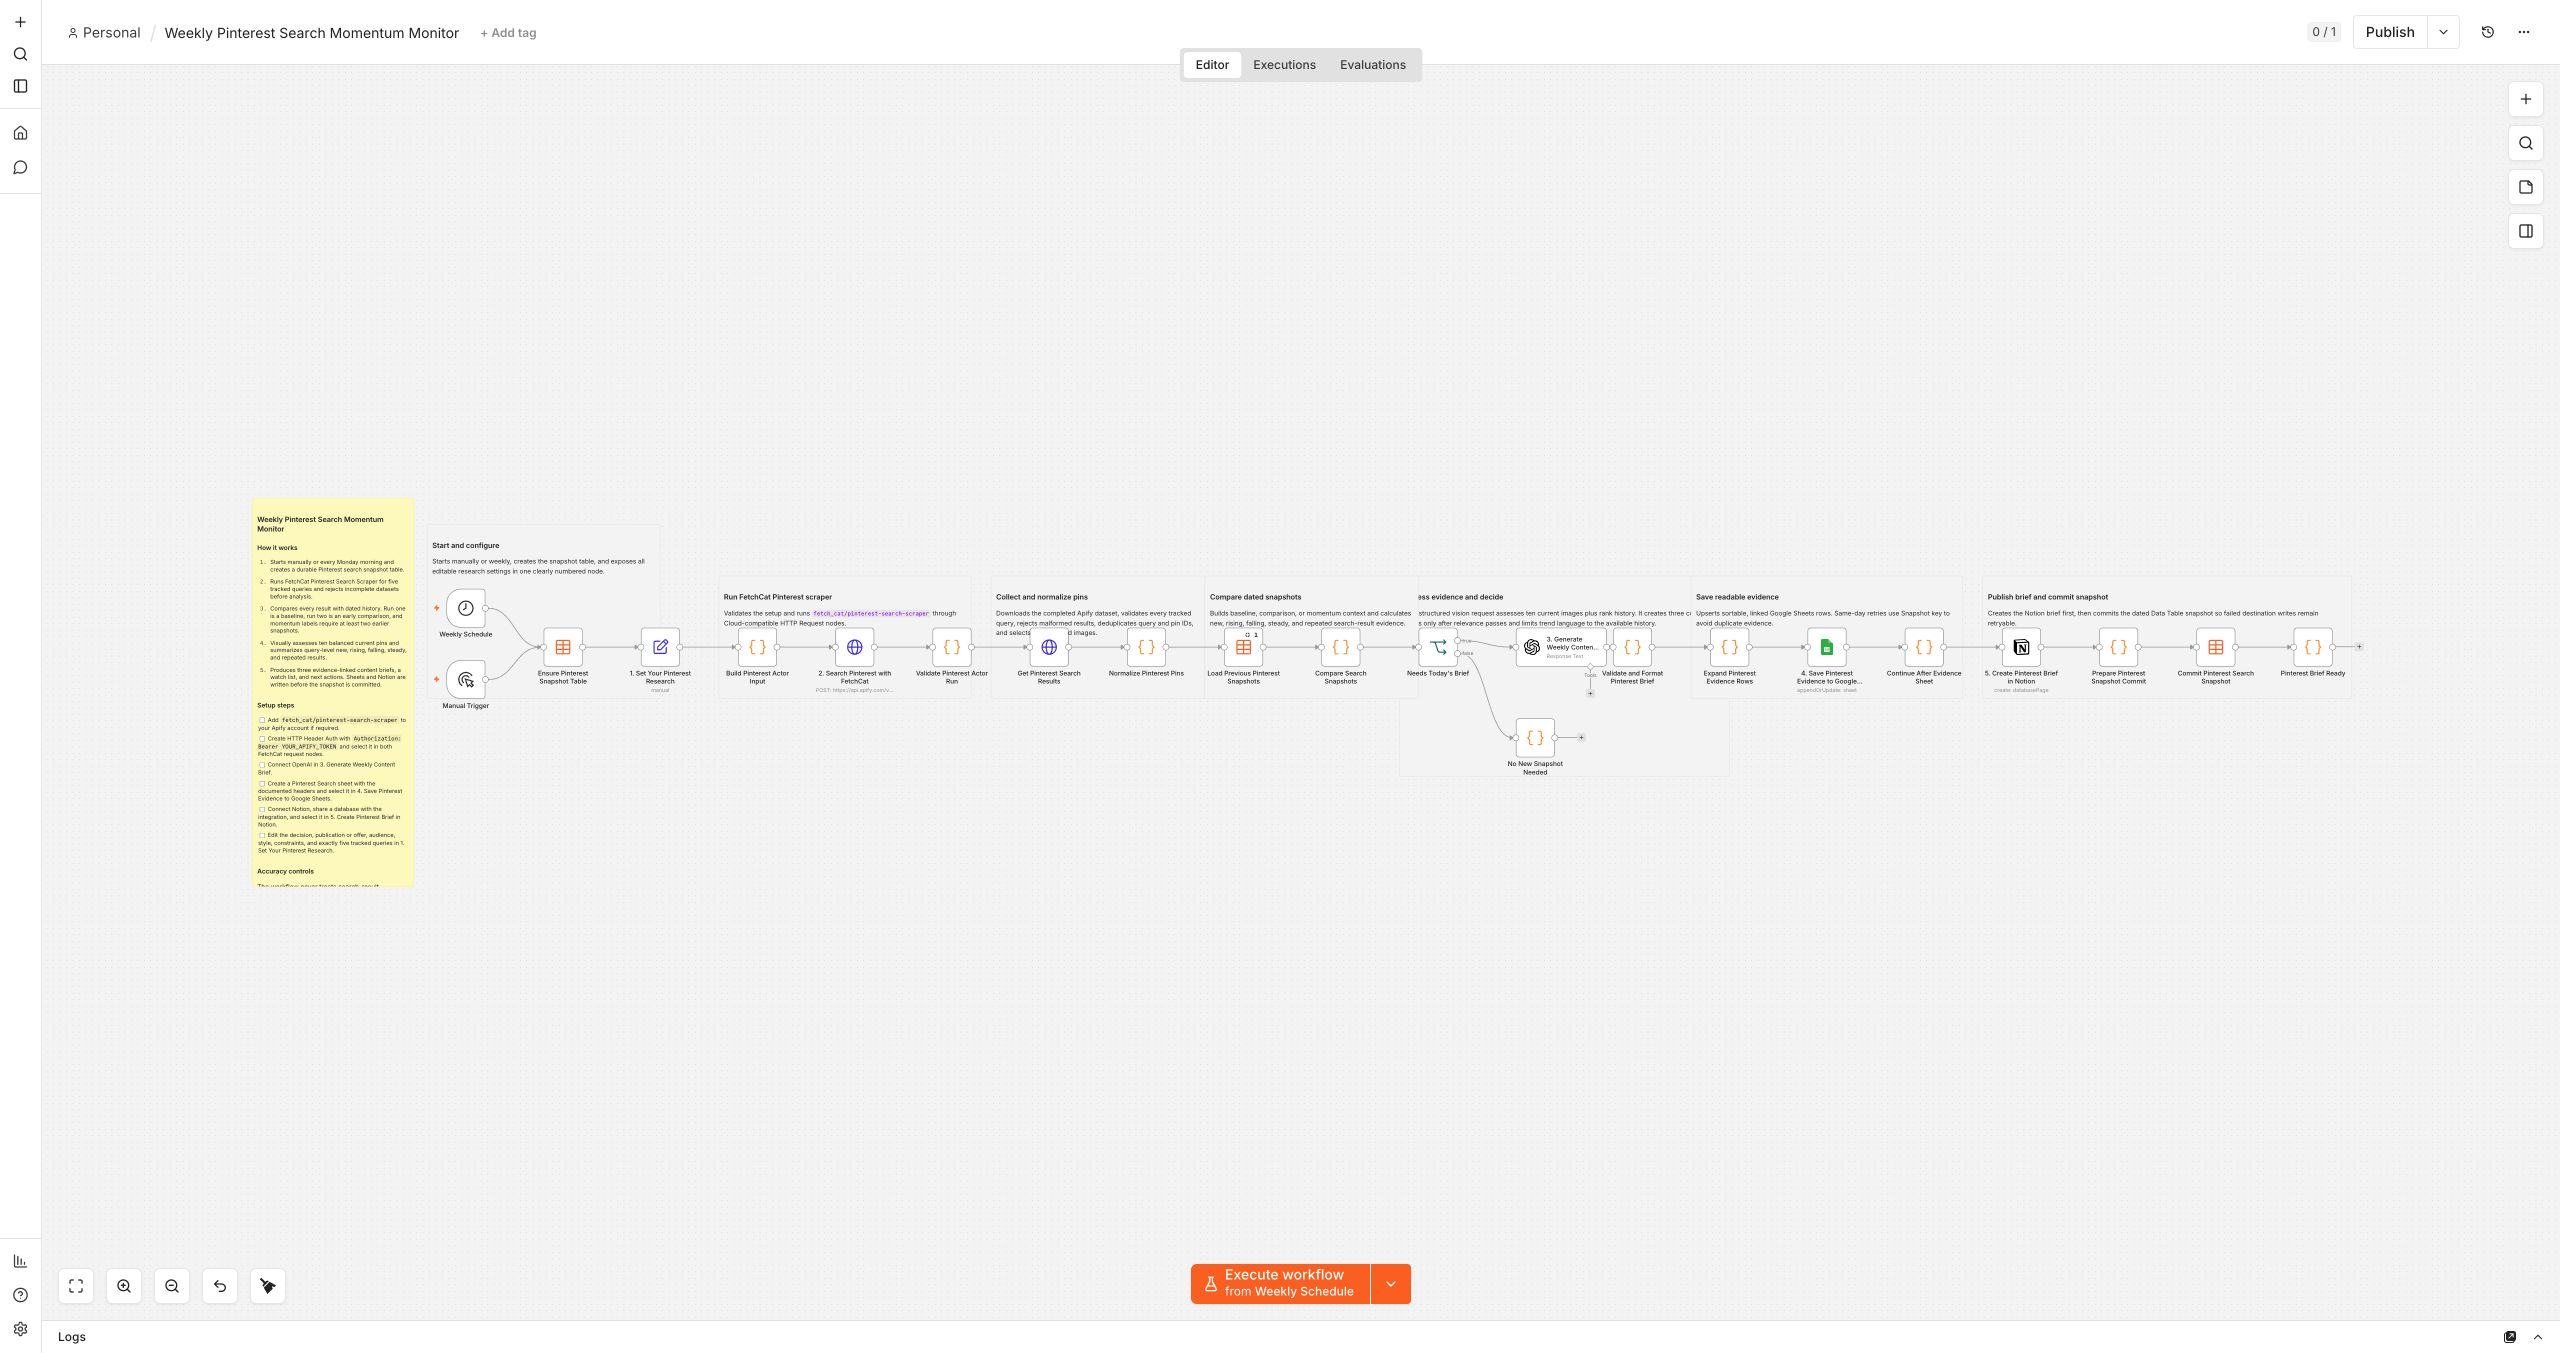
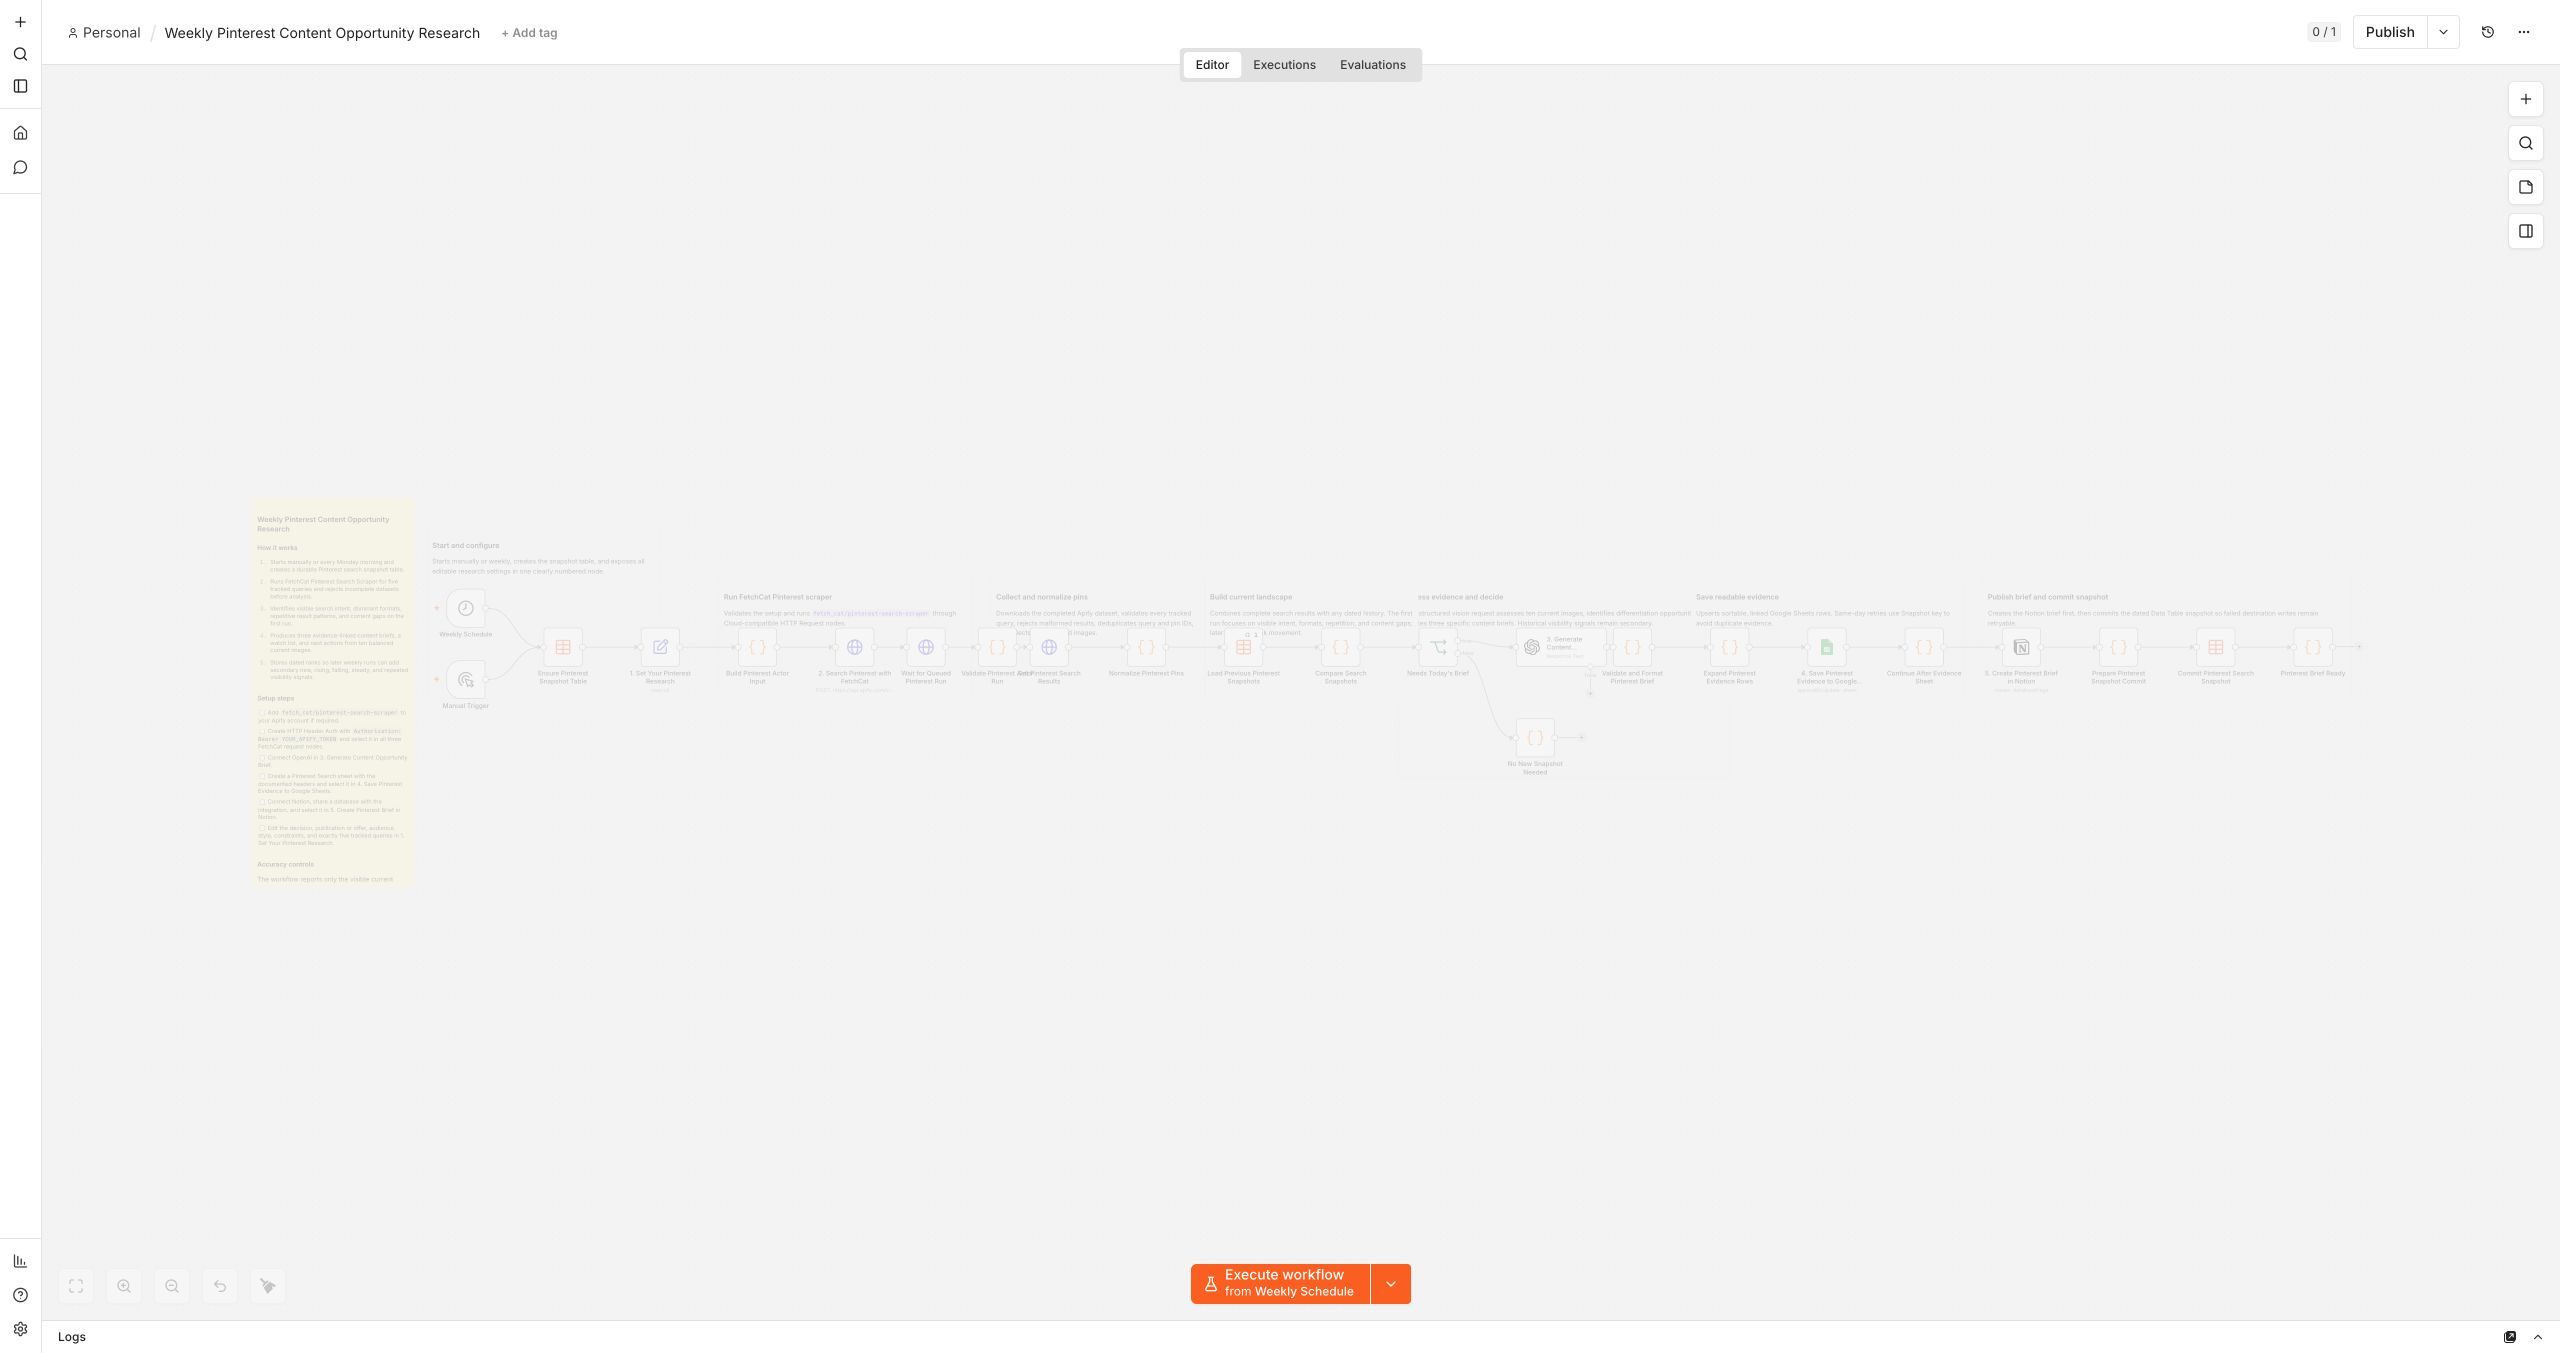
feat: focus Pinterest workflow on content opportunities

diff --git a/workflows/pinterest-search-opportunities-brief/README.md b/workflows/pinterest-search-opportunities-brief/README.md
@@ -1,59 +1,64 @@
-# Weekly Pinterest Search Momentum Monitor
+# Weekly Pinterest Content Opportunity Research
 
 Runs the [FetchCat Pinterest Search Scraper](https://apify.com/fetch_cat/pinterest-search-scraper)
-every Monday for five stable niche queries. It records complete Pinterest search
-snapshots, measures which pins entered or moved, visually reviews ten balanced
-current results, and turns the evidence into three content briefs for the next
-publishing cycle.
-
-The first run is a current-landscape baseline. The second is explicitly an early
-comparison. Only the third and later snapshots may label a repeated search-result
-pattern as momentum. This workflow does not equate ranking movement with search
-volume, popularity, or commercial demand.
+for five related niche searches and turns the current result landscape into an
+evidence-linked publishing plan. The first run identifies visible search intent,
+dominant formats, repetitive result patterns, differentiation gaps, and three
+specific content opportunities. Later weekly runs add secondary search-visibility
+movement without presenting rank changes as demand trends.
 
 ## Setup
 
 1. Import `workflow.json` into n8n Cloud or self-hosted n8n.
-2. Edit `1. Set Your Pinterest Research`: monitor name, publishing decision,
-   publication or offer, audience, style, constraints, and exactly five stable,
-   comma-separated queries. Keep these queries unchanged between weekly runs.
+2. Edit `1. Set Your Pinterest Research`: research name, publishing decision,
+   publication or offer, audience, style, constraints, and exactly five focused,
+   comma-separated searches.
 3. Add `fetch_cat/pinterest-search-scraper` to your Apify account. Create HTTP
    Header Auth with header `Authorization` and value `Bearer YOUR_APIFY_TOKEN`,
    then select it in all three FetchCat HTTP Request nodes.
-4. Connect a vision-capable OpenAI model in `3. Generate Weekly Content Brief`.
+4. Connect a vision-capable OpenAI model in `3. Generate Content Opportunity Brief`.
 5. Create a Google Sheet tab named `Pinterest Search` with headers: `Snapshot at`,
    `Query`, `Position`, `Previous position`, `Movement`, `Status`, `Pin`, `Title`,
    `Creator`, `Domain`, `Image`, `Saves`, `Repins`, `Pinterest pin ID`, and
    `Snapshot key`. Select it in the Sheets node.
 6. Connect Notion, share a database with the integration, and select it in
    `5. Create Pinterest Brief in Notion`.
-7. Run manually once, verify the baseline report, then activate the Monday schedule.
+7. Run manually, review the content opportunities, then activate the Monday schedule
+   if you also want visibility comparisons over time.
 
 The workflow creates `FetchCat Pinterest Search Snapshots` automatically.
 
-## What You Receive
+## First-Run Value
 
-- A query dashboard showing new, rising, falling, steady, and repeated results.
-- Four evidence-linked current, recurring, or emerging search-landscape patterns.
-- Three original content briefs with format, audience intent, differentiation,
-  visual direction, Pinterest title and description, keywords, and test metric.
-- A watch list, five follow-up queries, next actions, and linked source images.
-- Sortable Google Sheets evidence and a readable Notion decision brief.
+- A per-query assessment of informational, commercial, mixed, or unclear intent.
+- The dominant visible result format and how repetitive the supplied results look.
+- A concrete content gap and a narrower follow-up search for every query.
+- Four evidence-linked current patterns and differentiation observations.
+- Three original content briefs with audience problem, format, concept,
+  differentiation, visual direction, Pinterest copy, keywords, and source pins.
+- A watch list, next actions, linked source images, and sortable Sheet evidence.
+
+## Later Weekly Runs
+
+When the same five searches run on later dates, the report also shows new, rising,
+falling, steady, and repeated search-result visibility. These are rank and appearance
+signals, not Pinterest search volume, popularity, demand, clicks, or sales.
 
 ## Evidence Rules
 
-- Five queries must each return at least 70% of the configured result limit,
+- Five searches must each return at least 70% of the configured result limit,
   with an absolute minimum of five usable pins. Partial Actor output fails closed.
-- Ten balanced images are assessed in one structured request.
-- A baseline cannot claim movement or recurring patterns.
-- One prior snapshot can produce early signals but not emerging patterns.
-- Emerging labels require at least two earlier snapshot dates.
+- Ten balanced current images are assessed in one structured request.
+- Result similarity describes only the supplied visible pins.
+- A first run cannot claim movement, recurrence, or emergence.
+- One prior snapshot can produce early visibility signals but not emerging patterns.
+- Emerging visibility labels require at least two earlier snapshot dates.
 - Missing saves, repins, creators, and domains remain unknown rather than inferred.
 - Sheets and Notion must succeed before the dated snapshot is committed.
 
 ## QA
 
-Run a baseline, a synthetic historical comparison, and an incomplete-dataset
-negative test. Confirm stage language, citations, idempotent same-day behavior,
-human-readable Notion formatting, sortable Sheet fields, clean export/reimport,
-inactive schedules, and a clean secret scan.
+Test the current-landscape report, a synthetic historical comparison, queued Actor
+runs, and an incomplete-dataset failure. Confirm evidence citations, specific content
+gaps, idempotent same-day behavior, readable Notion formatting, sortable Sheet fields,
+clean export/reimport, inactive schedules, and a clean secret scan.

diff --git a/workflows/pinterest-search-opportunities-brief/creator-draft.md b/workflows/pinterest-search-opportunities-brief/creator-draft.md
@@ -1,33 +1,35 @@
-![Pinterest search momentum workflow](assets/workflow-overview.png)
+![Pinterest content opportunity workflow](assets/workflow-overview.png)
 
-# Monitor Pinterest search momentum and plan what to publish next
+# Research Pinterest content opportunities with FetchCat, OpenAI, Sheets and Notion
 
-Stop rebuilding a Pinterest content plan from scratch every week. This workflow
-uses `fetch_cat/pinterest-search-scraper` to monitor five stable niche searches,
-compare dated result snapshots, inspect current pin creatives, and create three
-evidence-linked briefs for the next publishing cycle.
+Turn five related Pinterest searches into a source-linked publishing plan. This
+workflow uses `fetch_cat/pinterest-search-scraper` to collect complete current results,
+inspect ten balanced pin images, identify visible search intent and content gaps, and
+produce three specific ideas to publish or test next.
+
+It is useful on the first run. Weekly history is optional and adds secondary rank and
+appearance comparisons without calling them search-demand trends.
 
 ## Who is it for?
 
-- Pinterest marketers and bloggers planning niche content
-- Ecommerce teams monitoring visual search-result changes
-- Agencies producing recurring research and content briefs
-- SEO and editorial teams that need source-linked recommendations
+- Bloggers and editorial teams choosing specific Pinterest-led topics
+- Ecommerce and affiliate teams connecting audience problems to useful content
+- Pinterest marketers researching visible formats and differentiation gaps
+- Agencies producing recurring, source-linked content opportunity reports
 
 ## How it works
 
 1. Runs manually or every Monday morning.
-2. Fetches up to ten public pins for each of five configured queries.
-3. Rejects partial datasets instead of analyzing missing queries.
-4. Stores dated ranks and identifies new, rising, falling, steady, and repeated pins.
-5. Assesses ten balanced current images with one structured OpenAI request.
-6. Creates three original content briefs, a watch list, and next actions.
-7. Saves sortable evidence to Google Sheets and a readable report to Notion.
+2. Fetches up to ten public pins for each of five configured searches.
+3. Waits for queued Apify runs and rejects partial datasets.
+4. Assesses ten balanced current images in one structured OpenAI request.
+5. Reports intent, dominant format, result similarity, and a content gap per search.
+6. Creates three original briefs with visual direction, Pinterest copy, and citations.
+7. Saves sortable evidence to Google Sheets and the readable plan to Notion.
+8. Stores dated ranks so later runs can add visibility comparisons.
 
-The first run is a baseline, the second is an early comparison, and momentum
-language requires at least two earlier snapshots. Search visibility is not search
-volume or sales evidence, so the workflow never claims demand, popularity, or
-commercial performance from ranking data alone.
+The workflow never treats visible repetition or rank movement as proof of search
+volume, popularity, demand, engagement, or sales.
 
 ## Required accounts
 

diff --git a/README.md b/README.md
@@ -9,7 +9,7 @@ and is designed to fail closed before writing to an external service.
 | Workflow | Actor | Destinations | State |
 | --- | --- | --- | --- |
 | [LinkedIn Job Match Digest](workflows/linkedin-job-match-digest/) | `fetch_cat/linkedin-jobs-scraper` | Google Sheets, Slack | QA passed |
-| [Weekly Pinterest Search Momentum Monitor](workflows/pinterest-search-opportunities-brief/) | `fetch_cat/pinterest-search-scraper` | Google Sheets, Notion | QA passed |
+| [Weekly Pinterest Content Opportunity Research](workflows/pinterest-search-opportunities-brief/) | `fetch_cat/pinterest-search-scraper` | Google Sheets, Notion | QA passed |
 | [YouTube Research Brief to Notion](workflows/youtube-research-brief-to-notion/) | `fetch_cat/youtube-transcript-scraper` | Notion | QA passed |
 | [Reddit Buying-Intent Alerts](workflows/reddit-buying-intent-alerts/) | `fetch_cat/reddit-scraper` | Telegram | QA passed |
 | [Private Workflow Error Alerts](workflows/shared-error-notifications/) | Companion workflow | Telegram | QA passed |

diff --git a/workflows/pinterest-search-opportunities-brief/assets/README.md b/workflows/pinterest-search-opportunities-brief/assets/README.md
@@ -1,7 +1,7 @@
 # Publication assets
 
 - `workflow-overview.png` shows the full annotated n8n canvas.
-- `output-preview.png` shows the formatted Notion brief and evidence sheet.
+- `output-preview.png` shows the formatted first-run Notion opportunity brief.
 
 Replace temporary images with screenshots from sanitized QA data before Creator
 Portal submission. Never include credentials, execution IDs, private URLs, or